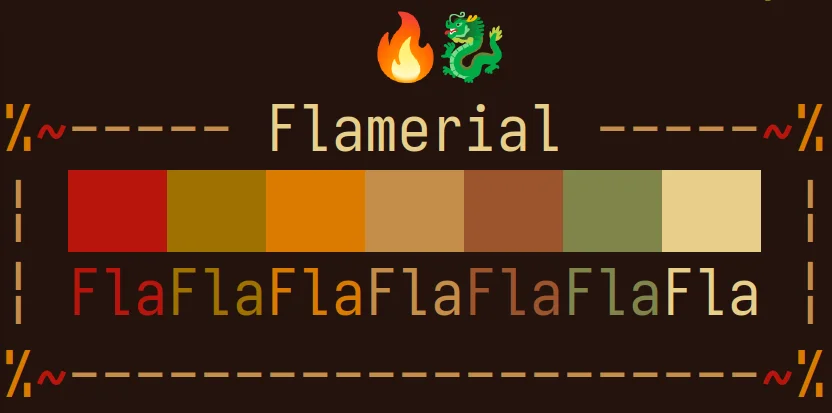
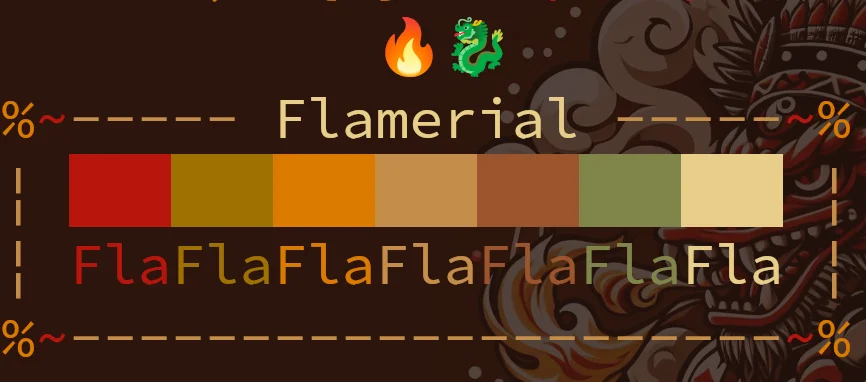
update preview

diff --git a/README.md b/README.md
@@ -17,7 +17,7 @@
 A fiery dark terminal theme.
 
 <p align="center"><img src="imgs/preview.webp" width="700" alt="" /></p>
-<p align="center"><sup><strong>Caption:</strong> a preview of the flamerial theme applied on a terminal. The font used is <a href="https://github.com/be5invis/Iosevka">Iosevka SS08</a>.</sup></p>
+<p align="center"><sup><strong>Caption:</strong> a preview of the flamerial theme applied on a terminal. The font used is <a href="https://fonts.google.com/specimen/Source+Code+Pro">source code pro</a>.</sup></p>
 
 ## ❡ Install
 
